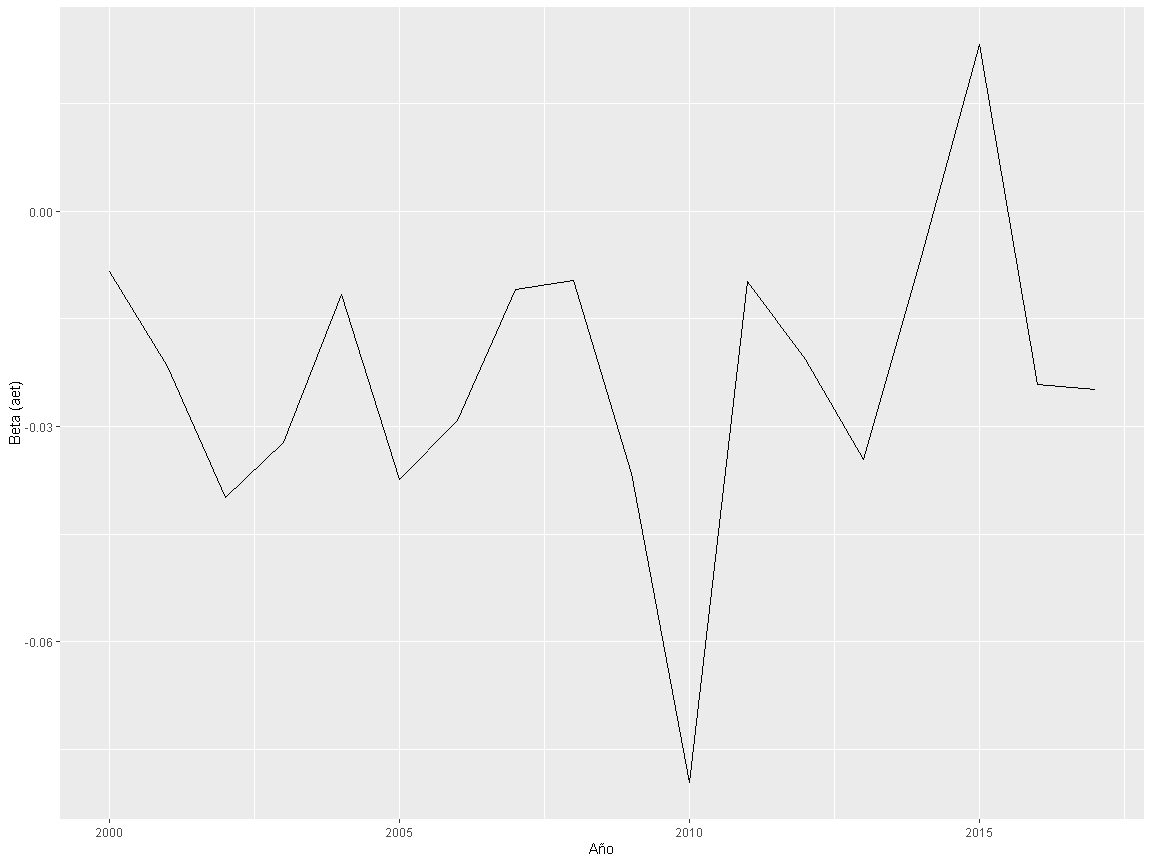
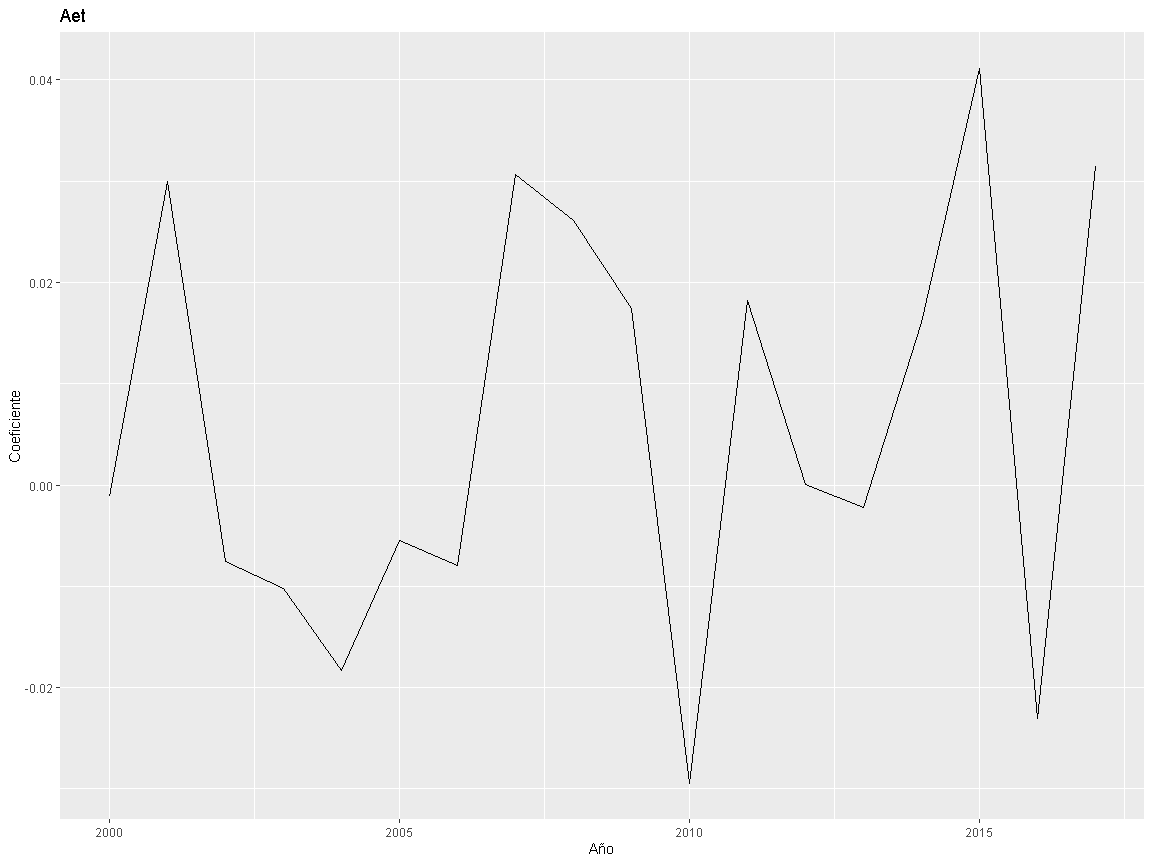
todos los betas y ventanas por meses

Changed region(s): [[0.0, 0.4688, 0.0312, 0.5312]]

diff --git a/rolling.md b/rolling.md
@@ -72,25 +72,118 @@ dt_final %>%
 
 ### Coeficientes de regresion en el tiempo
 
+#### Falciparum - Ventanas de 12 meses
+
 ``` r
-myfunct<-function(d){
-  df<-slide_period_dfr(
-    .x = d,
-    .i = d$fecha,
-    .period = "month",
-    ~data.frame(
-      intercepto = coefficients(glm.nb(vivax ~ aet + prcp + q + soilm + tmax, data = .x))[[1]],
-      beta1 = coefficients(glm.nb(vivax ~ aet + prcp + q + soilm + tmax, data = .x))[[2]]
-    ),
-    .every = 12
-  )
-} 
+df_betas <- slide_period_dfr(
+  .x = dt_final,
+  .i = dt_final$fecha,
+  .period = "month",
+  ~data.frame(
+    Aet = coef(glm.nb(formula = falciparum ~ aet + prcp + soilm + tmax, data = .x))[[2]],
+    Prcp = coef(glm.nb(formula = falciparum ~ aet + prcp + soilm + tmax, data = .x))[[3]],
+    Solim = coef(glm.nb(formula = falciparum ~ aet + prcp + soilm + tmax, data = .x))[[4]],
+    Tmax = coef(glm.nb(formula = falciparum ~ aet + prcp + soilm + tmax, data = .x))[[5]]
+  ),
+  .every = 12,
+  .complete = T
+)
 
-res<-myfunct(dt_final)
-
-ggplot(data = res, aes(x = seq(2000,2017), y=beta1)) +
-  labs(y= "Beta (aet)", x = "Año") +
-  geom_line()
+for (i in colnames(df_betas)) {
+  print(ggplot(data = df_betas, aes(x = seq(2000,2017), y=.data[[i]])) +
+          labs(y= "Coeficiente", x = "Año") +
+          labs(title=i) +
+          geom_line())
+}
 ```
 
-![](rolling_files/figure-gfm/unnamed-chunk-7-1.png)<!-- -->
+![](rolling_files/figure-gfm/unnamed-chunk-7-1.png)<!-- -->![](rolling_files/figure-gfm/unnamed-chunk-7-2.png)<!-- -->![](rolling_files/figure-gfm/unnamed-chunk-7-3.png)<!-- -->![](rolling_files/figure-gfm/unnamed-chunk-7-4.png)<!-- -->
+
+### Coeficientes de regresion en el tiempo
+
+#### Vivax - Ventanas de 12 meses
+
+``` r
+df_betas <- slide_period_dfr(
+  .x = dt_final,
+  .i = dt_final$fecha,
+  .period = "month",
+  ~data.frame(
+    Aet = coef(glm.nb(formula = vivax ~ aet + prcp + soilm + tmax, data = .x))[[2]],
+    Prcp = coef(glm.nb(formula = vivax ~ aet + prcp + soilm + tmax, data = .x))[[3]],
+    Solim = coef(glm.nb(formula = vivax ~ aet + prcp + soilm + tmax, data = .x))[[4]],
+    Tmax = coef(glm.nb(formula = vivax ~ aet + prcp + soilm + tmax, data = .x))[[5]]
+  ),
+  .every = 12,
+  .complete = T
+)
+
+for (i in colnames(df_betas)) {
+  print(ggplot(data = df_betas, aes(x = seq(2000,2017), y=.data[[i]])) +
+          labs(y= "Coeficiente", x = "Año") +
+          labs(title=i) +
+          geom_line())
+}
+```
+
+![](rolling_files/figure-gfm/unnamed-chunk-8-1.png)<!-- -->![](rolling_files/figure-gfm/unnamed-chunk-8-2.png)<!-- -->![](rolling_files/figure-gfm/unnamed-chunk-8-3.png)<!-- -->![](rolling_files/figure-gfm/unnamed-chunk-8-4.png)<!-- -->
+
+### Coeficientes de regresion en el tiempo
+
+#### Falciparum - Ventanas de 12 meses cada mes
+
+``` r
+df_betas <- slide_period_dfr(
+  .x = dt_final,
+  .i = dt_final$fecha,
+  .period = "month",
+  ~data.frame(
+    Aet = coef(glm.nb(formula = falciparum ~ aet + prcp + soilm + tmax, data = .x))[[2]],
+    Prcp = coef(glm.nb(formula = falciparum ~ aet + prcp + soilm + tmax, data = .x))[[3]],
+    Solim = coef(glm.nb(formula = falciparum ~ aet + prcp + soilm + tmax, data = .x))[[4]],
+    Tmax = coef(glm.nb(formula = falciparum ~ aet + prcp + soilm + tmax, data = .x))[[5]]
+  ),
+  .every = 1,
+  .after = 11,
+  .complete = T
+)
+
+for (i in colnames(df_betas)) {
+  print(ggplot(data = df_betas, aes(x = seq(1,205), y=.data[[i]])) +
+          labs(y= "Coeficiente", x = "Mes") +
+          labs(title=i) +
+          geom_line())
+}
+```
+
+![](rolling_files/figure-gfm/unnamed-chunk-9-1.png)<!-- -->![](rolling_files/figure-gfm/unnamed-chunk-9-2.png)<!-- -->![](rolling_files/figure-gfm/unnamed-chunk-9-3.png)<!-- -->![](rolling_files/figure-gfm/unnamed-chunk-9-4.png)<!-- -->
+
+### Coeficientes de regresion en el tiempo
+
+#### Vivax - Ventanas de 12 meses cada mes
+
+``` r
+df_betas <- slide_period_dfr(
+  .x = dt_final,
+  .i = dt_final$fecha,
+  .period = "month",
+  ~data.frame(
+    Aet = coef(glm.nb(formula = vivax ~ aet + prcp + soilm + tmax, data = .x))[[2]],
+    Prcp = coef(glm.nb(formula = vivax ~ aet + prcp + soilm + tmax, data = .x))[[3]],
+    Solim = coef(glm.nb(formula = vivax ~ aet + prcp + soilm + tmax, data = .x))[[4]],
+    Tmax = coef(glm.nb(formula = vivax ~ aet + prcp + soilm + tmax, data = .x))[[5]]
+  ),
+  .every = 1,
+  .after = 11,
+  .complete = T
+)
+
+for (i in colnames(df_betas)) {
+  print(ggplot(data = df_betas, aes(x = seq(1,205), y=.data[[i]])) +
+          labs(y= "Coeficiente", x = "Mes") +
+          labs(title=i) +
+          geom_line())
+}
+```
+
+![](rolling_files/figure-gfm/unnamed-chunk-10-1.png)<!-- -->![](rolling_files/figure-gfm/unnamed-chunk-10-2.png)<!-- -->![](rolling_files/figure-gfm/unnamed-chunk-10-3.png)<!-- -->![](rolling_files/figure-gfm/unnamed-chunk-10-4.png)<!-- -->
